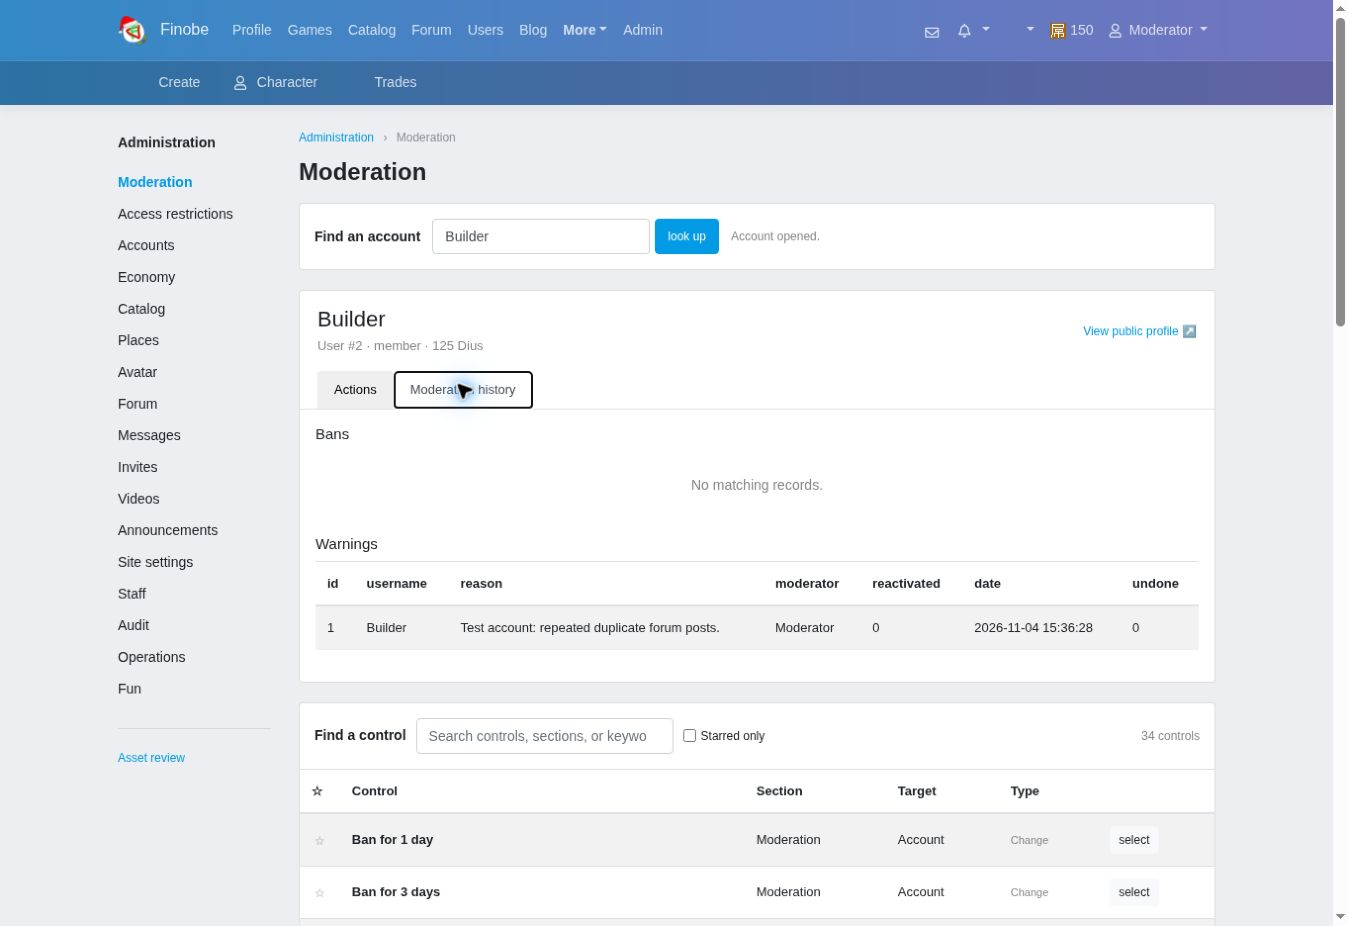
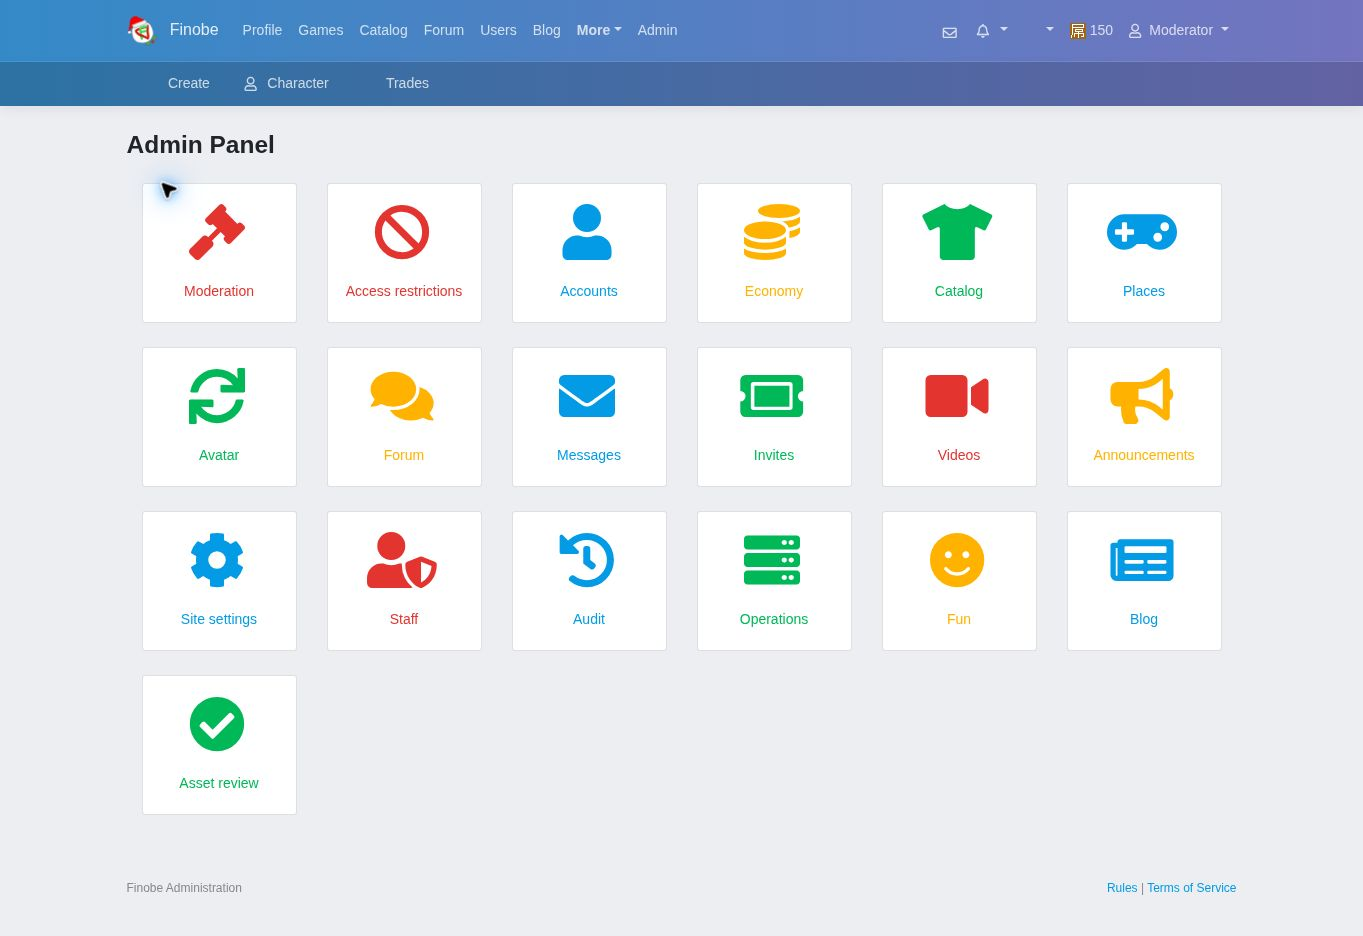
Restore original Finobe admin card layout and retain all controls

diff --git a/public/s/admin/workbench.css b/public/s/admin/workbench.css
@@ -6,3 +6,6 @@
 .finobe-admin{margin:0;padding:0;min-width:0}.admin-shell{display:flex;gap:28px}.sidebar{width:155px;flex:none;padding-top:4px}.side-heading{font-weight:700;margin-bottom:14px}.sidebar nav{display:flex;flex-direction:column;gap:1px}.section-link{display:flex;justify-content:space-between;align-items:center;width:100%;text-align:left;border:0;background:none;padding:5px 0;color:inherit;font-size:14px;font-family:inherit;cursor:pointer}.section-link:hover,.section-link.active{color:#039be5}.section-link.active{font-weight:700}.section-link b{font-size:11px;font-weight:400;color:#9299a1}.side-bottom{margin-top:24px;padding-top:12px;border-top:1px solid #d5d8dd;font-size:12px;color:#888}.admin-shell main{min-width:0;flex:1}.breadcrumbs{font-size:12px;color:#8a919a;margin-bottom:12px}.breadcrumbs span{margin-left:6px}.page-heading{display:flex;align-items:center;justify-content:space-between;margin-bottom:14px}.page-heading h1{font-size:24px;font-weight:600;margin:0 0 3px}.page-heading p{font-size:13px;margin:0}.lookup{display:flex;flex-direction:row;align-items:center;gap:12px;padding:15px;margin-bottom:20px}.lookup label{margin:0;font-weight:600}.lookup form{display:flex;gap:5px}.lookup input{width:220px}.lookup span{font-size:12px;color:#888}.panel-title{display:flex;align-items:center;justify-content:space-between;gap:10px}.panel-title h2{font-size:14px;font-weight:600;margin:0}.panel-title>span{font-size:12px;color:#888}.table-wrap{overflow:auto}table{font-size:13px}table th{white-space:nowrap;font-weight:600}table td{max-width:320px;overflow-wrap:anywhere}.empty{text-align:center;padding:24px!important;color:#888}.admin-footer{display:flex;justify-content:space-between;gap:15px;padding:20px 0;margin-top:20px;font-size:12px;color:#888}.tools-bar{display:flex;align-items:center;gap:10px;padding:15px;flex-wrap:wrap}.tools-bar>label:first-child{font-weight:600;margin:0}.tools-bar input[type=search]{width:260px}.check{display:flex;align-items:center;gap:5px;font-size:12px;margin:0}#tool-count{margin-left:auto;font-size:12px;color:#888}.tools-table td{vertical-align:middle}.tools-table .star-col{width:30px}.tools-table td:nth-child(2){font-weight:600}.star.btn{border:0;background:none;box-shadow:none;padding:0 3px;color:#92999e;font-size:19px}.star.selected{color:#d39c27}.tag{font-size:11px;color:#888}.tag.read{color:#598549}.account-panel{margin-bottom:20px}.account-heading{display:flex;justify-content:space-between;align-items:center;padding:16px 18px;gap:15px}.account-heading h2{font-size:22px;margin:0 0 3px}.account-heading p{font-size:13px;color:#888;margin:0}.account-heading a{font-size:12px}.account-tabs{padding:0 18px}.account-tabs button{font-family:inherit;cursor:pointer;font-size:13px}#moderation-form{display:grid;grid-template-columns:180px 1fr;gap:25px;padding:20px}fieldset{border:0;margin:0;padding:0}legend{font-size:14px;font-weight:600;width:auto;margin-bottom:8px}.radio-options{display:grid;gap:4px;font-size:13px}.radio-options label{display:flex;align-items:center;gap:5px;margin:0}.red{color:#dc3545}.moderation-note label{font-weight:600;font-size:14px}.moderation-note small{display:block;font-weight:400;color:#888}.moderation-note textarea{width:100%;min-height:90px}.moderation-note button{margin-top:12px}#account-history{padding:16px}#account-history h3{font-size:15px}.link-button{border:0;background:none;color:#039be5;font-size:12px;cursor:pointer}#result{padding:15px;overflow:auto;max-height:560px}#result pre{white-space:pre-wrap;overflow-wrap:anywhere;font-size:12px;margin:0}#result td pre{font-size:11px;max-height:150px;overflow:auto}.result-pagination{display:flex;justify-content:space-between;padding:12px}.result-pagination button{font:inherit}#notice{position:fixed;bottom:20px;right:20px;max-width:430px;padding:12px 18px;background:#e6f1e7;border:1px solid #a7c8ae;color:#345d3e;border-radius:3px;z-index:1050}#notice.error{background:#fae8e8;border-color:#dcb2b2;color:#903f3f}dialog{width:490px;max-width:calc(100% - 24px);max-height:90vh;overflow:auto;padding:0;border:0;border-radius:3px;background:#fff;color:#333;box-shadow:0 20px 60px #0004}dialog::backdrop{background:#0007}dialog form{padding:0 20px 20px}dialog header{display:flex;justify-content:space-between;align-items:center;margin:0 -20px 18px;padding:10px 18px;border-bottom:1px solid #ddd;font-size:13px;color:#888}dialog header button{border:0;background:none;font-size:22px;cursor:pointer;color:#777}dialog h2{font-size:21px;margin-bottom:7px}dialog p{font-size:13px;color:#888}dialog label{display:block;font-weight:600;font-size:14px;margin:14px 0 5px}dialog label small{display:block;color:#888;font-weight:400}.confirm{font-weight:400;display:flex;gap:8px;align-items:flex-start;background:#fff8e8;border:1px solid #e2d7ba;padding:10px}dialog footer{display:flex;justify-content:flex-end;gap:8px;margin-top:20px;padding-top:15px;border-top:1px solid #ddd}dialog footer button:not(.primary){border:1px solid #ddd;border-radius:3px;background:#f6f6f6;padding:6px 12px;cursor:pointer}#action-error{color:#a33;background:#fceeee;padding:10px;margin-top:12px;font-size:13px}[hidden]{display:none!important}button:focus-visible,a:focus-visible{outline:2px solid #039be5;outline-offset:2px}
 @media(max-width:1199px){.lookup{flex-wrap:wrap}.lookup span{width:100%}.admin-shell{gap:22px}.sidebar{width:145px}}
 @media(max-width:767px){.admin-shell{display:block}.sidebar{width:100%;padding:0;margin-bottom:16px}.side-heading,.side-bottom{display:none}.sidebar nav{flex-direction:row;overflow:auto;gap:15px;border-bottom:1px solid #d5d8dd}.section-link{width:auto;flex:none;gap:5px;padding:6px 0}.lookup form{width:100%}.lookup input{width:100%}.lookup input{min-width:0}.tools-bar input[type=search]{width:100%}.tools-table th:nth-child(3),.tools-table td:nth-child(3){display:none}#moderation-form{grid-template-columns:1fr;gap:14px}.radio-options{grid-template-columns:repeat(3,1fr)}.admin-footer{font-size:11px}.account-heading{padding:12px}.account-heading a{white-space:nowrap}.tools-table td{padding:7px!important}#notice{left:12px;right:12px;bottom:12px}}
+
+/* Original Finobe admin entry: six-column catalog cards, shared site navbar. */
+.admin-classic .admin-category{display:block;height:100%;text-decoration:none}.admin-classic .admin-category .card{height:100%}.admin-classic .admin-category .card-body{padding:20px 10px}.admin-classic .admin-category p{font-size:14px}.admin-classic #page-title{margin-bottom:20px}

diff --git a/public/s/admin/workbench.js b/public/s/admin/workbench.js
@@ -14,8 +14,9 @@
   if(!response.ok)throw new Error(data.errors?Object.values(data.errors).flat().join(' '):data.message||`Request failed (${response.status}).`);
   return data;
  }
- function setGroup(next){group=next;$('page-title').textContent=next;$('crumb').textContent=next;document.querySelectorAll('.section-link').forEach(b=>b.classList.toggle('active',b.dataset.group===next));renderTools();}
- document.querySelectorAll('.section-link').forEach(b=>b.addEventListener('click',()=>{ $('tool-search').value='';setGroup(b.dataset.group);}));
+ function setGroup(next){group=next;const overview=next==='Overview';$('page-title').textContent=overview?'Admin Panel':next;$('admin-menu').hidden=!overview;$('admin-workspace').hidden=overview;if(!overview)renderTools();}
+ document.querySelectorAll('[data-group]').forEach(b=>b.addEventListener('click',e=>{e.preventDefault();$('tool-search').value='';setGroup(b.dataset.group);}));
+ $('admin-back').addEventListener('click',e=>{e.preventDefault();setGroup('Overview');});
  function renderTools(){const term=$('tool-search').value.toLowerCase().trim();const matches=actions.filter(a=>(group==='All controls'||group==='Overview'||a.group===group)&&(!term||`${a.label} ${a.group} ${a.target}`.toLowerCase().includes(term))&&(!$('favorites-only').checked||favorites.has(a.id)));
  $('tool-count').textContent=`${matches.length} controls`;$('tool-list').replaceChildren();
  for(const a of matches){const row=el('tr');const star=el('button',favorites.has(a.id)?'★':'☆','star'+(favorites.has(a.id)?' selected':''));star.type='button';star.setAttribute('aria-label',(favorites.has(a.id)?'Unstar ':'Star ')+a.label);star.setAttribute('aria-pressed',String(favorites.has(a.id)));star.addEventListener('click',()=>{favorites.has(a.id)?favorites.delete(a.id):favorites.add(a.id);try{localStorage.setItem(favoritesKey,JSON.stringify([...favorites]));}catch{}renderTools();});const cell=el('td');cell.append(star);row.append(cell,el('td',a.label),el('td',a.group),el('td',targetName(a.target)));const type=el('td');type.append(el('span',readonly.has(a.kind)?'View':'Change','tag'+(readonly.has(a.kind)?' read':'')));const open=el('button',readonly.has(a.kind)?'Open':'Select');open.type='button';open.addEventListener('click',()=>choose(a));const last=el('td');last.append(open);row.append(type,last);$('tool-list').append(row);}
@@ -41,6 +42,6 @@
  $('lookup-form').addEventListener('submit',async e=>{e.preventDefault();const button=e.target.querySelector('button');button.disabled=true;try{await lookup($('user-query').value.trim());}catch{}finally{button.disabled=false;}});
  document.querySelectorAll('[data-account-tab]').forEach(b=>b.addEventListener('click',()=>{document.querySelectorAll('[data-account-tab]').forEach(x=>x.classList.toggle('active',x===b));$('account-actions').hidden=b.dataset.accountTab!=='actions'||!byId.has('moderation-issue-a-warning');$('account-history').hidden=b.dataset.accountTab!=='history';}));
  $('moderation-form').addEventListener('submit',e=>{e.preventDefault();if(!user)return;choose(byId.get(new FormData(e.target).get('moderation')),{target:String(user.id),reason:$('moderation-reason').value.trim()});});
- setGroup(actions.some(a=>a.group==='Moderation')?'Moderation':actions[0]?.group||'All controls');
+ setGroup('Overview');
  if(window.jQuery)jQuery('[data-toggle=tooltip]').tooltip();
 })();

diff --git a/resources/views/admin/workbench.blade.php b/resources/views/admin/workbench.blade.php
@@ -14,17 +14,45 @@
 </head>
 <body class="finobe-admin">
 {!! $navbarHtml !!}
-<div class="container mt-4 admin-shell">
-<aside class="sidebar"><div class="side-heading">Administration</div><nav aria-label="Admin sections">
-@foreach(collect($actions)->groupBy('group') as $group => $items)<button class="section-link nav-link" data-group="{{ $group }}"><span>{{ $group }}</span></button>@endforeach
-@if(in_array('Blog', \App\Admin\Access::scopes($actor), true))<a class="section-link nav-link" href="/admin/blog">Blog</a>@endif
-</nav><div class="side-bottom"><p class="mt-2"><a href="/admin/assets">Asset review</a></p></div></aside>
-<main id="main"><div class="breadcrumbs"><a href="/admin">Administration</a> <span>›</span> <span id="crumb">Overview</span></div>
-<div class="page-heading"><h1 id="page-title">Admin Panel</h1></div>
+<div class="container mt-4 admin-classic">
+<main id="main">
+<h3 id="page-title" class="font-weight-bold">Admin Panel</h3>
+<section id="admin-menu" class="catalog_container mt-4" aria-label="Admin sections">
+@php
+$icons = [
+    'Moderation' => ['gavel', 'danger'], 'Access restrictions' => ['ban', 'danger'],
+    'Accounts' => ['user', 'primary'], 'Economy' => ['coins', 'warning'],
+    'Catalog' => ['tshirt', 'success'], 'Places' => ['gamepad', 'primary'],
+    'Avatar' => ['sync', 'success'], 'Forum' => ['comments', 'warning'],
+    'Messages' => ['envelope', 'primary'], 'Invites' => ['ticket-alt', 'success'],
+    'Videos' => ['video', 'danger'], 'Announcements' => ['bullhorn', 'warning'],
+    'Site settings' => ['cog', 'primary'], 'Staff' => ['user-shield', 'danger'],
+    'Audit' => ['history', 'primary'], 'Operations' => ['server', 'success'],
+    'Fun' => ['smile', 'warning'],
+];
+@endphp
+<div class="row mx-0">
+@foreach(collect($actions)->groupBy('group') as $group => $items)
+@php([$icon, $color] = $icons[$group] ?? ['tools', 'primary'])
+<div class="col-6 col-md-4 col-lg-2 mb-4">
+<a class="catalog-card admin-category" href="#{{ \Illuminate\Support\Str::slug($group) }}" data-group="{{ $group }}">
+<div class="card"><div class="card-body text-center text-{{ $color }}">
+<i class="fas align-middle fa-fw fa-{{ $icon }} mr-1 fa-4x" aria-hidden="true"></i><br><br>
+<p class="mb-0">{{ $group }}</p>
+</div></div></a></div>
+@endforeach
+@if(in_array('Blog', \App\Admin\Access::scopes($actor), true))
+<div class="col-6 col-md-4 col-lg-2 mb-4"><a class="catalog-card admin-category" href="/admin/blog"><div class="card"><div class="card-body text-center text-primary"><i class="fas align-middle fa-fw fa-newspaper mr-1 fa-4x" aria-hidden="true"></i><br><br><p class="mb-0">Blog</p></div></div></a></div>
+@endif
+<div class="col-6 col-md-4 col-lg-2 mb-4"><a class="catalog-card admin-category" href="/admin/assets"><div class="card"><div class="card-body text-center text-success"><i class="fas align-middle fa-fw fa-check-circle mr-1 fa-4x" aria-hidden="true"></i><br><br><p class="mb-0">Asset review</p></div></div></a></div>
+</div></section>
+<div id="admin-workspace" hidden>
+<p><a href="#" id="admin-back">← Admin Panel</a></p>
 <section class="lookup card card-body"><label for="user-query">Find an account</label><form id="lookup-form"><input class="form-control" id="user-query" name="q" placeholder="Username or user ID" autocomplete="off" maxlength="80" required><button class="btn btn-primary" type="submit">Look up</button></form><span id="lookup-status" role="status">Open an account to see its moderation history.</span></section>
 <section id="account" class="account-panel card" hidden><div class="account-heading"><div><h2 id="account-name"></h2><p id="account-meta"></p></div><a id="profile-link" href="#" target="_blank" rel="noopener">View public profile ↗</a></div><div class="account-tabs nav nav-tabs"><button class="nav-link active" data-account-tab="actions">Actions</button><button class="nav-link" data-account-tab="history">Moderation history</button></div><div id="account-actions"><form id="moderation-form"><fieldset><legend>Account state override</legend><div class="radio-options"><label><input type="radio" name="moderation" value="moderation-send-a-reminder"> Remind</label><label><input type="radio" name="moderation" value="moderation-issue-a-warning" checked> Warn</label>@foreach([1,3,7,14,30] as $days)<label><input type="radio" name="moderation" value="moderation-ban-for-{{ $days }}-day{{ $days == 1 ? '' : 's' }}"> Ban {{ $days }} day{{ $days == 1 ? '' : 's' }}</label>@endforeach<label class="red"><input type="radio" name="moderation" value="moderation-terminate-account"> Terminate</label></div></fieldset><div class="moderation-note"><label for="moderation-reason">Moderation note <small>Shown to the user</small></label><textarea class="form-control" id="moderation-reason" rows="2" minlength="3" maxlength="2000" placeholder="Explain what happened and what needs to change." required></textarea><button class="primary btn btn-primary" type="submit">Review action</button></div></form></div><div id="account-history" hidden></div></section>
 <section id="tools" class="card"><div class="tools-bar"><label for="tool-search">Find a control</label><input class="form-control" type="search" id="tool-search" placeholder="Search controls, sections, or keywords…"><label class="check"><input type="checkbox" id="favorites-only"> Starred only</label><span id="tool-count"></span></div><div class="table-wrap"><table class="tools-table table table-sm table-striped mb-0"><thead><tr><th class="star-col"><span class="sr-only">Favorite</span>☆</th><th>Control</th><th>Section</th><th>Target</th><th>Type</th><th></th></tr></thead><tbody id="tool-list"></tbody></table></div></section>
 <section id="result-panel" class="panel card mt-4" hidden><div class="panel-title card-header"><h2 id="result-title">Result</h2><button id="download-result" class="link-button">Download JSON</button></div><div id="result" aria-live="polite"></div><div class="result-pagination" hidden><button id="prev-page">← Previous</button><span id="result-page"></span><button id="next-page">Next →</button></div></section>
+</div>
 <div id="notice" role="status" aria-live="polite" hidden></div>
 <footer class="admin-footer"><span>Finobe Administration</span><span><a href="/legal/rules">Rules</a> | <a href="/legal/terms">Terms of Service</a></span></footer>
 </main></div>

diff --git a/tests/Feature/AdminWorkbenchTest.php b/tests/Feature/AdminWorkbenchTest.php
@@ -44,7 +44,7 @@ class AdminWorkbenchTest extends TestCase
         $this->actingAs($this->member)->postJson('/admin/controls/execute',['action'=>'moderation-issue-a-warning','target'=>'2','reason'=>'A reason'])->assertForbidden();
     }
     public function test_panel_uses_the_shared_finobe_navbar_without_custom_branding_or_sidebar_counts():void {
-        $this->actingAs($this->admin)->get('/admin')->assertOk()->assertSee('finnobe3logo.png')->assertDontSee('finobe-wordmark.png')->assertDontSee('available controls')->assertSee('Moderation history');
+        $this->actingAs($this->admin)->get('/admin')->assertOk()->assertSee('finnobe3logo.png')->assertDontSee('finobe-wordmark.png')->assertDontSee('available controls')->assertSee('Moderation history')->assertSee('catalog_container')->assertSee('id="admin-menu"', false)->assertSee('id="admin-workspace" hidden', false)->assertDontSee('<aside class="sidebar">', false);
     }
     public function test_warning_is_saved_and_requires_acknowledgement_on_the_site():void {
         $this->runControl('moderation-issue-a-warning');

diff --git a/docs/admin-panel.md b/docs/admin-panel.md
@@ -1,6 +1,6 @@
 # Finobe administration
 
-The admin panel is at `/admin`. It uses the existing `v2/Modules/nav.twig` navbar, normal Finobe logo, and the site's light/night stylesheets. There is no separate admin navbar, dashboard, custom wordmark, or sidebar count display.
+The admin panel is at `/admin`. It uses the existing `v2/Modules/nav.twig` navbar, normal Finobe logo, and the site's light/night stylesheets. The entry page restores the original Finobe icon-card grid. Each category opens its existing controls, with a return link to the grid. Account moderation, all 528 controls/presets, asset review, and blog management remain available. There is no separate admin navbar, custom wordmark, or numbered sidebar.
 
 ## Install
 
